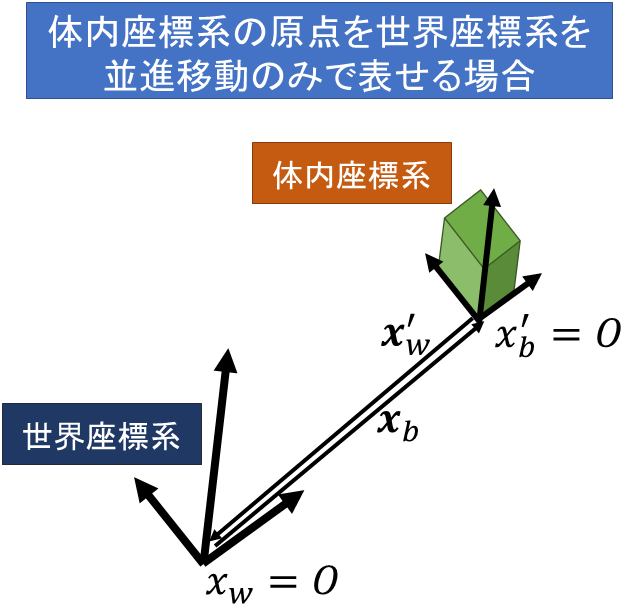
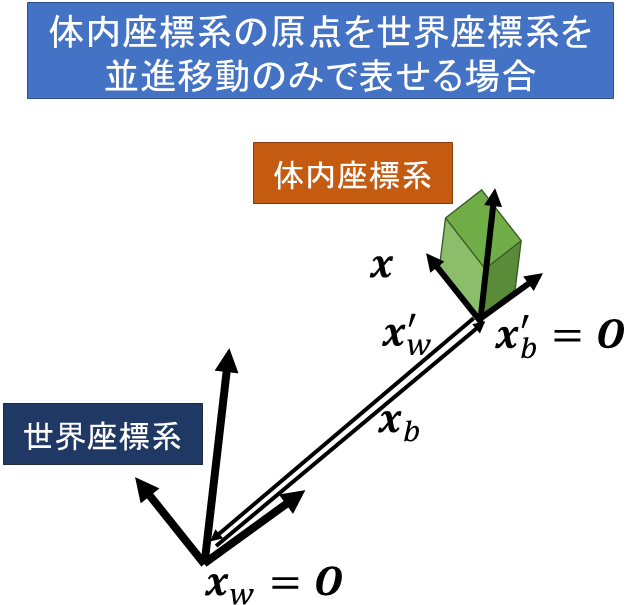
画像を同期

diff --git a/2021_0517.md b/2021_0517.md
@@ -5,14 +5,14 @@ theme: template
 
 # 物体の回転
 
-## オイラー角
+## 1.1. オイラー角
 
 欠点
 1. 特異点がある．
 1. 姿勢の時間的変化を積分する際に単位四元数よりも精度が低いこと
 
 
-## 四元数
+## 1.2. 四元数
 
 欠点
 1. 四元数が直感的な物理的意味を持たないこと
@@ -20,12 +20,26 @@ theme: template
 
 ---
 
-## 座標系
+## 1.3. 座標系
+
+![bg right 70%](https://raw.githubusercontent.com/rurusasu/Diary/master/%E7%94%BB%E5%83%8F/2021_0517/fig1.png)
+
 2つの異なる座標系で表現されたデータの関係を考えます。
 * ワールド座標系は、慣性空間に固定されています。
 * この座標系の原点を $x_w$ とする。体固定座標系は、姿勢を表現したい物体に固く固定されています。この座標系の原点を $x_b$ とする。
 
 体内固定座標で表現された点やベクトルは，世界座標で表現されたものとは素数記号で区別される。 例えば，$x$ が世界座標上の点であるならば，$x′$ は体部固定座標上で表現された同じ点である。言うまでもなく，$x_w$ と $x′_b$ はともにゼロであるが，$x′_w$ と $x_b$は一般的にはゼロではない。ここで，$x′_w$ は体側固定座標で表された世界座標の原点であり，$x_b$ は世界座標で表された体内固定座標の原点である。
+
+---
+
+### 1.3.1. 並進移動で表される体内座標系における体内座標系上の点 P
+
+点 $\bm{x}_w$から 点 $P$ への位置ベクトルを $\bm{x}$，とすると，体内 $P$ への位置ベクトルを $bm{y}$ は
+
+$$
+
+$$
+
 
 ---
 
